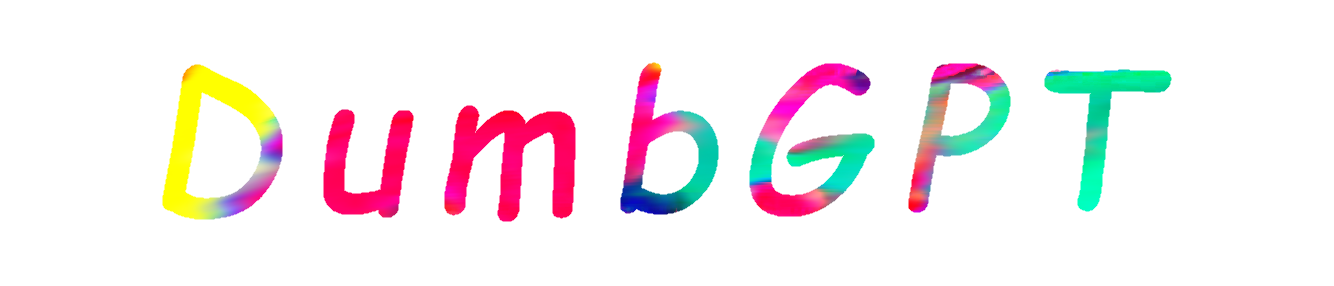
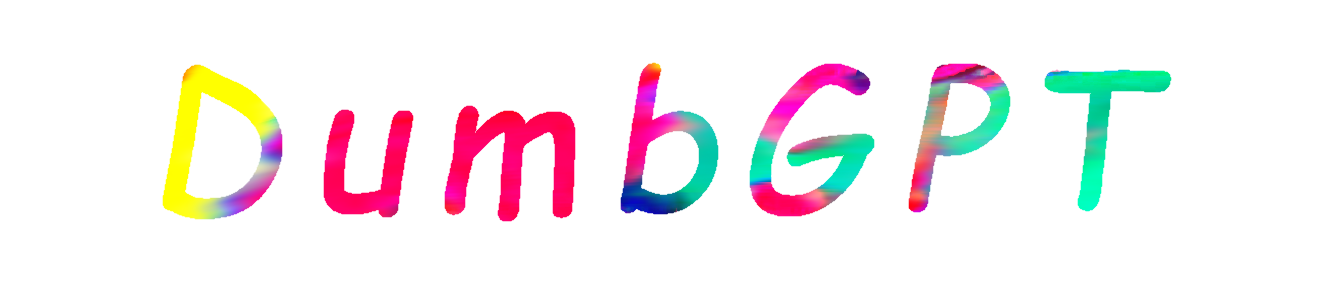
a

diff --git a/frontend/index.html b/frontend/index.html
@@ -14,9 +14,11 @@
             display: flex;
             flex-direction: column;
             align-items: center;
-            height: 100vh;
+            justify-content: center;
+            min-height: 100vh;
             color: #333;
             font-size: 1.2em;
+            text-align: center;
         }
 
         .title-container {
@@ -30,12 +32,11 @@
         }
 
         .content {
-            flex: 1;
             display: flex;
             justify-content: center;
             align-items: center;
             width: 100%;
-            padding-bottom: 100px;
+            flex-direction: column;
         }
 
         .chat-container {
@@ -105,20 +106,52 @@
             padding: 10px 0;
             font-size: 0.9em;
             color: #666;
-            position: absolute;
-            bottom: 5px;
+            margin-top: 20px;
         }
 
         @media (max-width: 600px) {
             .input-area {
                 flex-direction: column;
             }
+
             button {
                 width: 100%;
+                font-size: 1em;
             }
+
             .title-container {
+                display: flex;
                 flex-direction: column;
-                text-align: center;
+                align-items: center;
+                justify-content: center;
+                gap: 10px;
+                margin-top: 20px;
+            }
+
+            .title-container img {
+                max-width: 100%;
+                height: auto;
+            }
+
+            .chat-container {
+            width: 90%;
+            max-width: 580px;
+            background-color: #f0f0f5;
+            padding: 20px;
+            border-radius: 10px;
+            box-shadow: 0 4px 10px rgba(0, 0, 0, 0.1);
+            display: flex;
+            flex-direction: column;
+            text-align: left;
+        }
+
+            .chat-container {
+                width: 95%;
+            }
+
+            #mode-text {
+                font-size: 1em;
+                padding: 6px 12px;
             }
         }
 
@@ -142,7 +175,87 @@
             border: 2px solid black;
             display: none;
         }
+        
+        .toggle-switch {
+        position: relative;
+        display: inline-block;
+        width: 40px;
+        height: 24px;
+        margin: 10px;
+        }
 
+        .toggle-switch .toggle-input {
+        display: none;
+        }
+
+        .toggle-switch .toggle-label {
+        position: absolute;
+        top: 0;
+        left: 0;
+        width: 40px;
+        height: 24px;
+        background-color: #2196F3;
+        border-radius: 34px;
+        cursor: pointer;
+        transition: background-color 0.3s;
+        }
+
+        .toggle-switch .toggle-label::before {
+        content: "";
+        position: absolute;
+        width: 20px;
+        height: 20px;
+        border-radius: 50%;
+        top: 2px;
+        left: 2px;
+        background-color: #fff;
+        box-shadow: 0px 2px 5px 0px rgba(0, 0, 0, 0.3);
+        transition: transform 0.3s;
+        }
+
+        .toggle-switch .toggle-input:checked + .toggle-label {
+        background-color: #4CAF50;
+        }
+
+        .toggle-switch .toggle-input:checked + .toggle-label::before {
+        transform: translateX(16px);
+        }
+
+        .toggle-switch.light .toggle-label {
+        background-color: #BEBEBE;
+        }
+
+        .toggle-switch.light .toggle-input:checked + .toggle-label {
+        background-color: #9B9B9B;
+        }
+
+        .toggle-switch.light .toggle-input:checked + .toggle-label::before {
+        transform: translateX(6px);
+        }
+
+        .toggle-switch.dark .toggle-label {
+        background-color: #4B4B4B;
+        }
+
+        .toggle-switch.dark .toggle-input:checked + .toggle-label {
+        background-color: #717171;
+        }
+
+        .toggle-switch.dark .toggle-input:checked + .toggle-label::before {
+        transform: translateX(16px);
+        }
+
+        #mode-text {
+            font-size: 1.2em;
+            font-weight: bold;
+            color: rgb(39, 39, 39);
+            background-color: rgba(0, 0, 255, 0);
+            padding: 8px 15px;
+            border-radius: 12px;
+            transition: background-color 0.3s, font-size 0.3s;
+            text-align: center;
+            display: inline-block;
+        }
     </style>
 </head>
 <body>
@@ -165,24 +278,35 @@
                 <button onclick="askQuestion()">Submit</button>
             </div>
 
-            <div class="mode-container" style="margin-top: 20px; display: flex; justify-content: center;">
-                <button onclick="toggleMode()" id="mode-toggle" style="background-color: blue;">Normal Mode</button>
+            <div class="mode-container" style="margin-top: 20px; display: flex; align-items: center; gap: 10px; justify-content: center;">
+                <span id="mode-text">Brainrot Mode</span>
+                
+                <div class="toggle-switch" style="transform: scale(1.3);">
+                    <input class="toggle-input" id="toggle" type="checkbox" onchange="toggleMode()">
+                    <label class="toggle-label" for="toggle"></label>
+                </div>
             </div>
+            
         </div>
     </div>
     
     <div class="video-container left-video">
-        <video loop autoplay muted playsinline>
+        <!-- <video loop autoplay muted playsinline>
             <source src="https://dumbgpt.netlify.app/assets/subway_gameplay.mp4" type="video/mp4">
             Your browser does not support the video tag.
-        </video>
+        </video> -->
+
+        <video loop autoplay muted src="https://dumbgpt.netlify.app/assets/subway_gameplay.mp4" id="left-video" style="display: none;"></video>
     </div>
     
     <div class="video-container right-video">
-        <video loop autoplay muted playsinline>
+        <!-- <video loop autoplay muted playsinline>
             <source src="https://dumbgpt.netlify.app/assets/subway_gameplay.mp4" type="video/mp4">
             Your browser does not support the video tag.
-        </video>
+        </video> -->
+
+        <video loop autoplay muted src="https://dumbgpt.netlify.app/assets/subway_gameplay.mp4" id="right-video" style="display: none;"></video>
+
     </div>
     
     <div class="popup" id="popup">
@@ -190,10 +314,8 @@
     </div>
 
 
-
-
     <p class="disclaimer">
-        Never expect anything useful out of this AI's messages, he's just    dumb.
+        Never expect anything useful out of this AI's messages, he's just dumb.
     </p>
 
     <script>
@@ -226,12 +348,39 @@
         let lang_mode = "normal";
 
         function toggleMode() {
-            const modeButton = document.getElementById("mode-toggle");
-            lang_mode = lang_mode === "brainrot" ? "normal" : "brainrot";
+            // const modeText = document.getElementById("mode-text");
+            const toggle = document.getElementById("toggle");
+            const questionInput = document.getElementById("question-input");
+            const body = document.body;
+            const chatContainer = document.querySelector(".chat-container");
+            const inputField = document.querySelector("input");
+            const modeText = document.getElementById("mode-text");
+            const titleLogo = document.getElementById("title_logo");
 
-            modeButton.textContent = lang_mode === "brainrot" ? "Brainrot Mode" : "Normal Mode";
-            modeButton.style.backgroundColor = lang_mode === "brainrot" ? "green" : "blue";
+            lang_mode = toggle.checked ? "brainrot" : "normal";
+
+            // modeText.textContent = lang_mode === "brainrot" ? "Brainrot Mode" : "Normal Mode";
+            // modeText.style.backgroundColor = lang_mode === "brainrot" ? "green" : "blue";
+
+            questionInput.placeholder = lang_mode === "brainrot" ? "Ask BrainrotGPT... " : "Ask DumbGPT... ";
+            
+            if (toggle.checked) {
+                body.style.backgroundColor = "#2c2c2c";
+                body.style.color = "#ddd";
+                chatContainer.style.backgroundColor = "#3a3a3a";
+                inputField.style.backgroundColor = "#444";
+                inputField.style.color = "#ddd";
+                titleLogo.src = "https://dumbgpt.netlify.app/assets/DumbGPT_logo4.png";
+            } else {
+                body.style.backgroundColor = "#ffffff";
+                body.style.color = "#333";
+                chatContainer.style.backgroundColor = "#f0f0f5";
+                inputField.style.backgroundColor = "#ffffff";
+                inputField.style.color = "#333";
+                titleLogo.src = "https://dumbgpt.netlify.app/assets/DumbGPT_logo3.png";
+            }
         }
+
 
         function askQuestion() {
             const questionInput = document.getElementById("question-input");
@@ -272,7 +421,7 @@
                 }, randomDelay);
 
                 if (lang_mode === 'brainrot') {
-                startBrainrotEffects();
+                    startBrainrotEffects();
                 } else {
                     stopBrainrotEffects();
                 }

diff --git a/main.py b/main.py
@@ -43,7 +43,7 @@ def submit():
 
             if really_bro == True:
                 fart = True
-        print(fart)
+        # print(fart)
 
         if question in empty_questions:
             answer = random.choice(empty_answers) 
